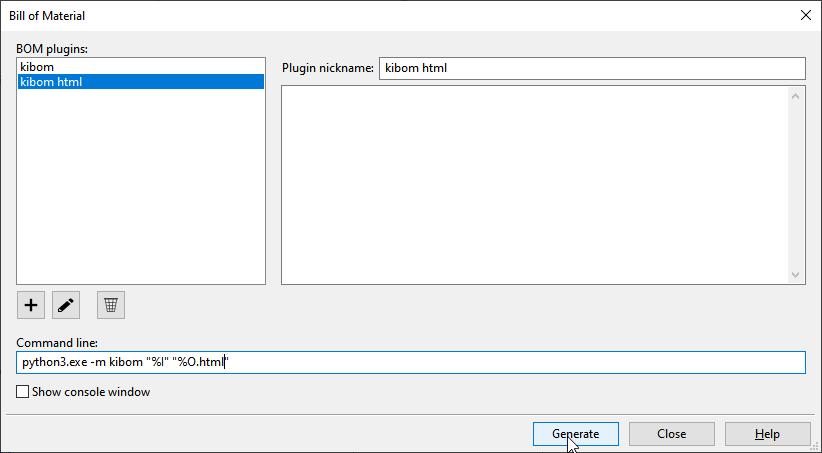
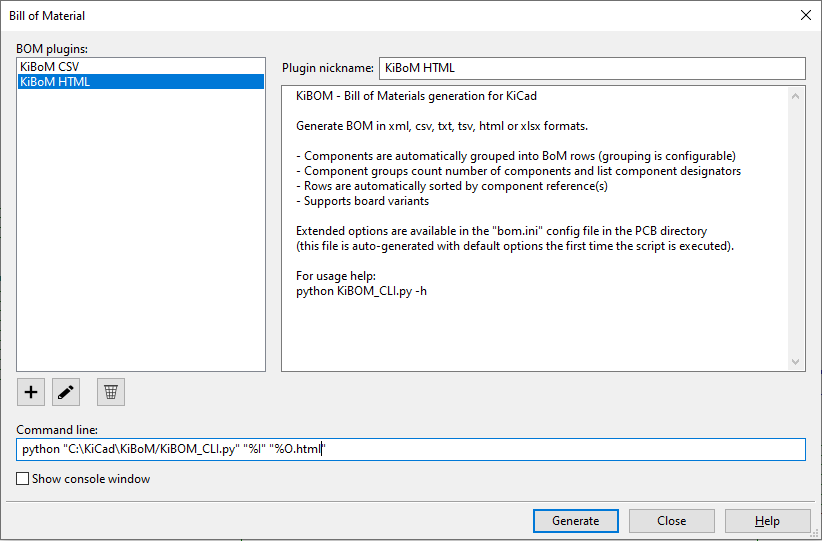
Update docs

diff --git a/KiBOM_CLI.py b/KiBOM_CLI.py
@@ -14,7 +14,7 @@
     (this file is auto-generated with default options the first time the script is executed).
 
     For usage help:
-    python -m kibom -h
+    python KiBOM_CLI.py -h
 """
 
 import sys

diff --git a/README.md b/README.md
@@ -14,41 +14,37 @@ BoM options are user-configurable in a per-project configuration file.
 
 ## Installation
 
-KiBom can be installed through the PIP package manager:
+KiBoM can be installed via multiple methods:
+
+**A. Download**
+
+Download the KiBoM [package from github](https://github.com/SchrodingersGat/KiBoM/archive/master.zip) and extract the .zip archive to a location on your computer.
+
+**B. Git Clone**
+
+Use git to clone the source code to your computer:
+
+`git clone https://github.com/SchrodingersGat/kibom`
+
+**C. PIP**
+
+KiBom can also be installed through the PIP package manager:
 
 ```pip install kibom```
 
 *Note: Take note of which python executable you use when installing kibom - this is the same executable you must use when running the KiBom script from KiCAD (more details below under "Usage")*
 
+Installing under PIP is recommended for advanced users only, as the exact location of the installed module must be known to properly run the script from within KiCad.
+
 ## Usage
 
-The KiBoM script can be run directly from KiCad or from the command line, e.g.
+The *KiBOM_CLI* script can be run directly from KiCad or from the command line. For command help, run the script with the *-h* flag e.g.
 
-`python -m kibom "%I" "%O.csv"`
-
-**Note: Selecting python executable**
-
-The python executable you choose (i.e. the *python* part of the command above) **must** be the same as the one you used to install kibom (using pip).
-
-By default KiCad uses the version of python packaged with the KiCad application (i.e. kicad/bin/python).
-
-**Example: Install kibom under python3 on windows**
-
-You have installed kibom using Python3: `pip3 install kibom`
-
-To launch the script correctly from the KiCad BOM window, use the command:
-
-`python3.exe -m kibom "%I" "%O.csv"`
-
-If you are running a different python version, select that accordingly.
-
-For command help, run the script with the *-h* flag e.g.
-
-`python -m kibom -h`
+`python KiBOM_CLI.py -h`
 
 ~~~~
-usage: python -m kibom [-h] [-n NUMBER] [-v] [-r VARIANT] [-d SUBDIRECTORY]
-                    [--cfg CFG] [-s SEPARATOR] [--version]
+usage: KiBOM_CLI.py [-h] [-n NUMBER] [-v] [-r VARIANT] [--cfg CFG]
+                    [-s SEPARATOR]
                     netlist output
 
 KiBOM Bill of Materials generator script
@@ -56,8 +52,8 @@ KiBOM Bill of Materials generator script
 positional arguments:
   netlist               xml netlist file. Use "%I" when running from within
                         KiCad
-  output                BoM output file name. Use "%O" when running from   
-                        within KiCad to use the default output name (csv   
+  output                BoM output file name. Use "%O" when running from
+                        within KiCad to use the default output name (csv
                         file). For e.g. HTML output, use "%O.html"
 
 optional arguments:
@@ -66,20 +62,18 @@ optional arguments:
                         Number of boards to build (default = 1)
   -v, --verbose         Enable verbose output
   -r VARIANT, --variant VARIANT
-                        Board variant(s), used to determine which components
-                        are output to the BoM. To specify multiple variants,
-                        with a BOM file exported for each variant, separate
-                        variants with the ';' (semicolon) character.
+                        Board variant(s), used to determine which components are
+                        output to the BoM
   -d SUBDIRECTORY, --subdirectory SUBDIRECTORY
-                        Subdirectory within which to store the generated BoM
-                        files.
+                        Subdirectory (relative to output file) within which the
+                        BoM(s) should be written.
   --cfg CFG             BoM config file (script will try to use 'bom.ini' if
                         not specified here)
   -s SEPARATOR, --separator SEPARATOR
                         CSV Separator (default ',')
-  --version             show program's version number and exit
-~~~~                        
 
+
+~~~~                        
 
 **netlist** The netlist must be provided to the script. When running from KiCad use "%I"
 
